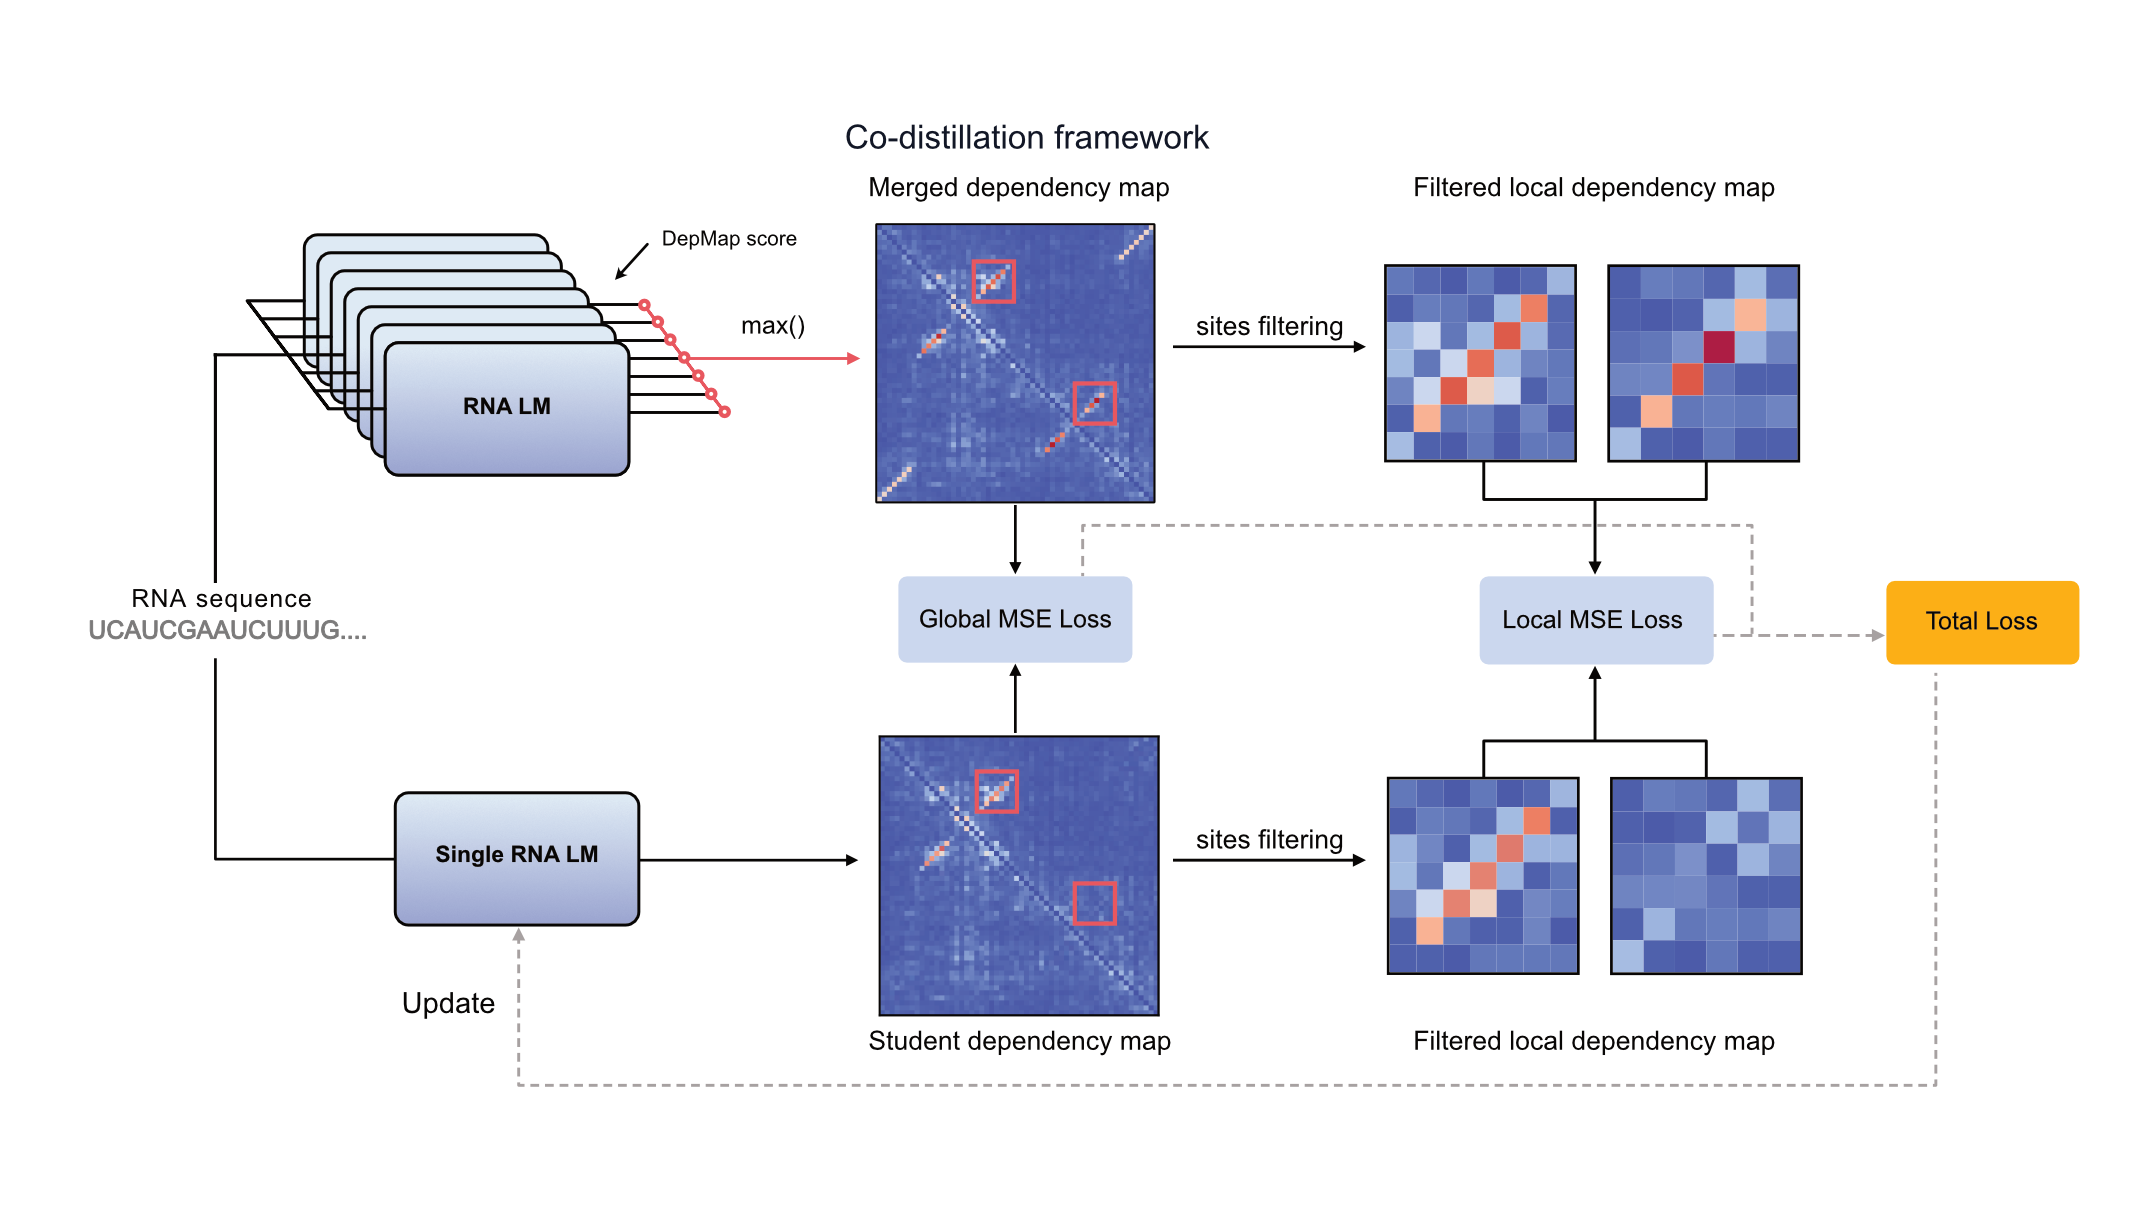
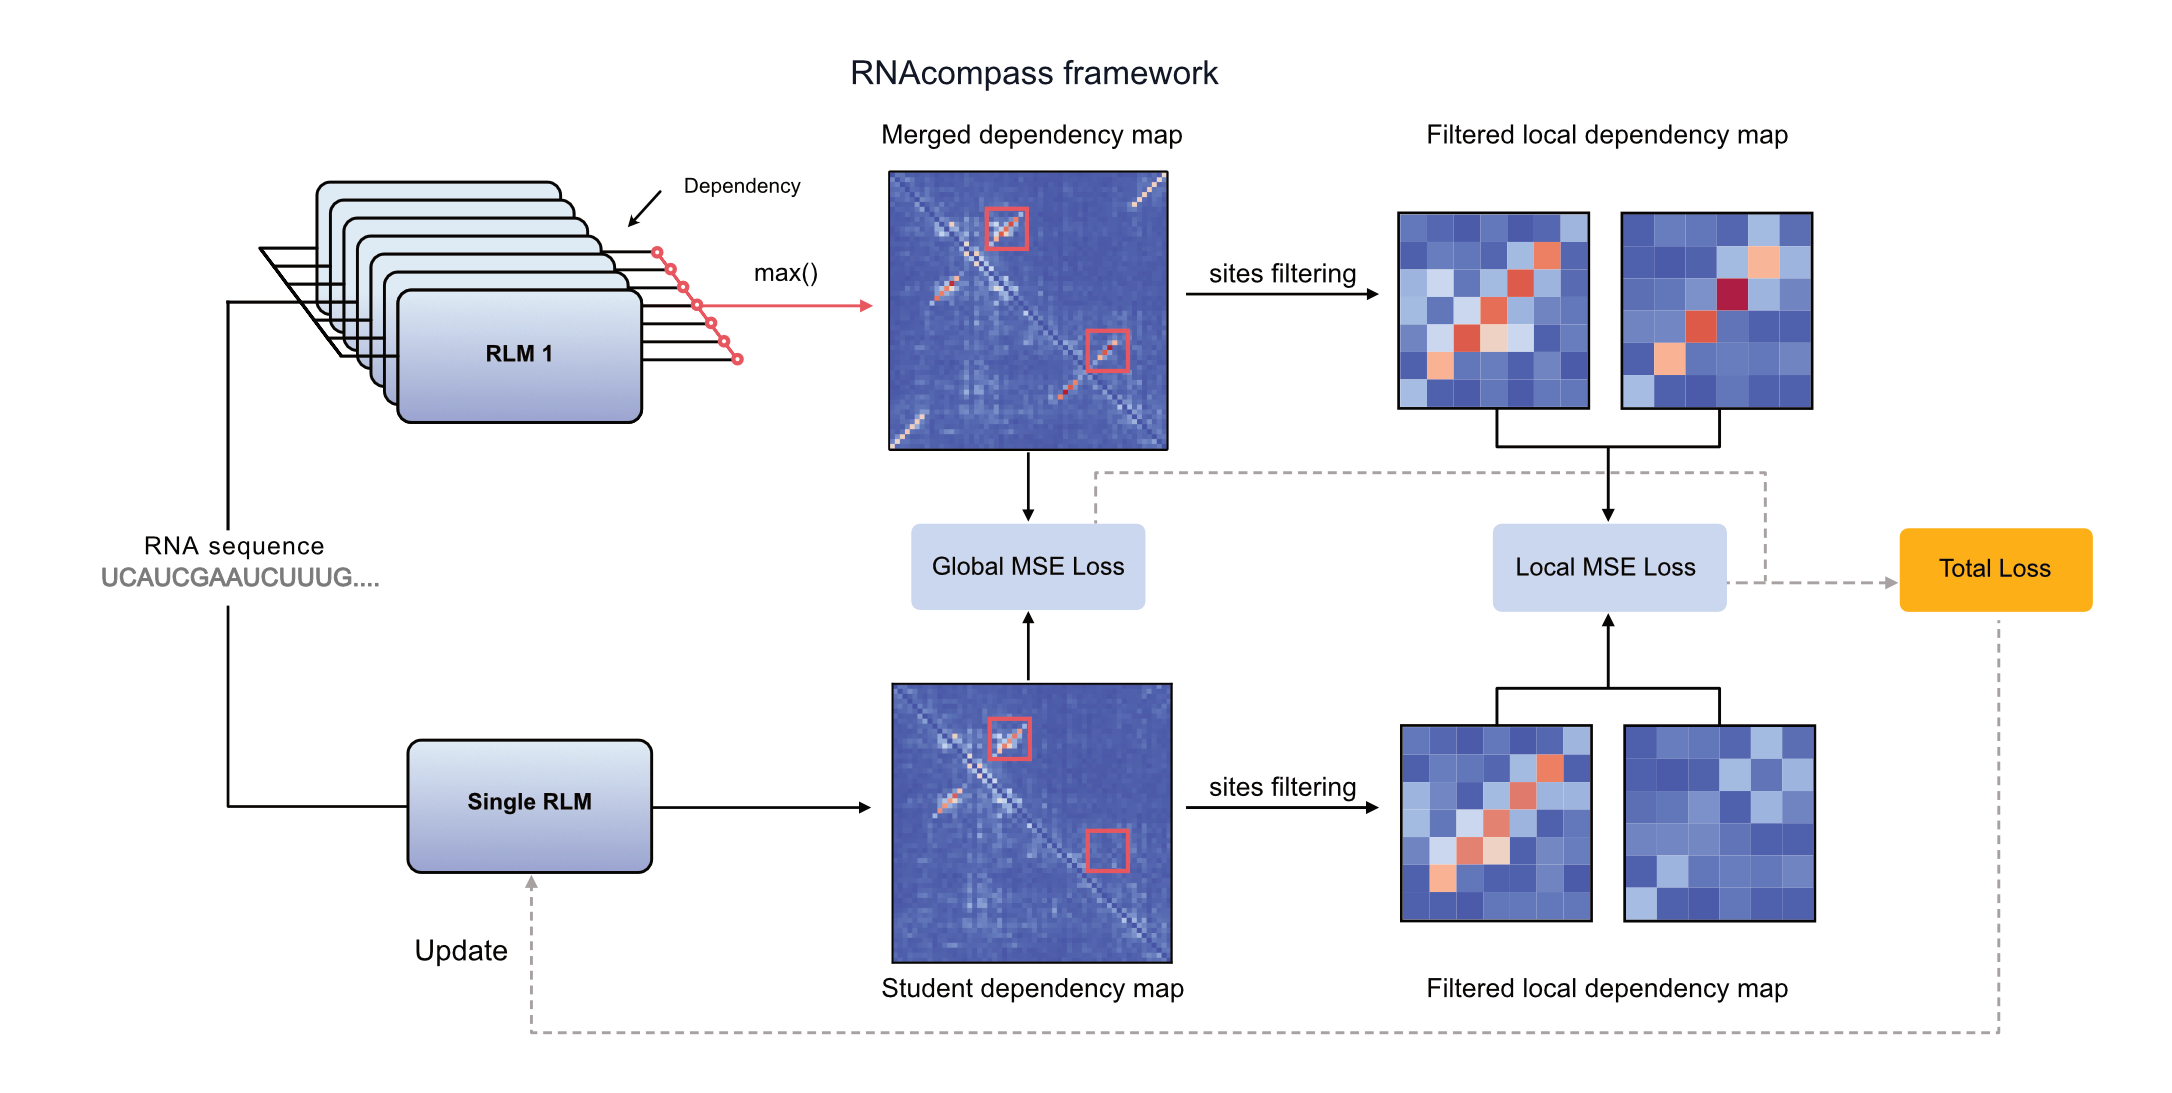
Update homepage framework figure

Changed region(s): [[0.0312, 0.0622, 0.843, 0.9332], [0.843, 0.4666, 0.9678, 0.5599], [0.4059, 0.4666, 0.5308, 0.5599]]

diff --git a/README.md b/README.md
@@ -16,7 +16,7 @@ language models reveals conserved structures from single sequences*, is in
 preparation.
 
 <p align="center">
-  <img src="docs/assets/rnacompass.png" alt="RNAcompass co-distillation framework" width="800">
+  <img src="docs/assets/rnacompass.png" alt="RNAcompass framework" width="800">
 </p>
 
 - **Pretrained weights:** Download the two public checkpoints from
